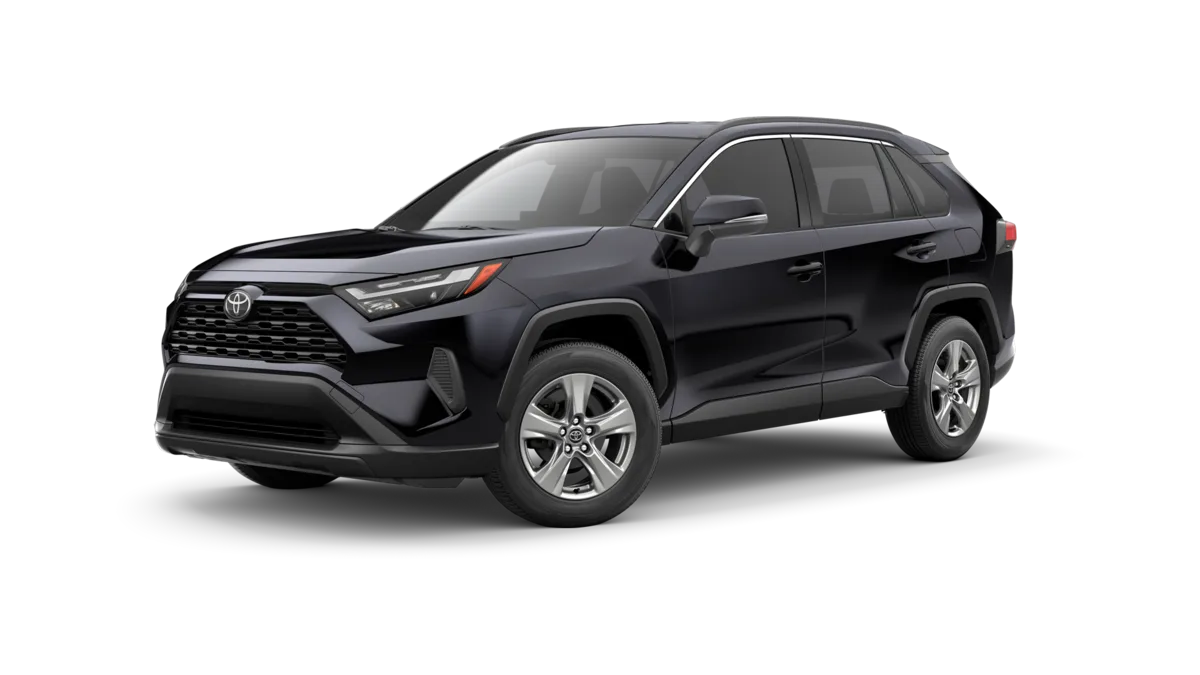
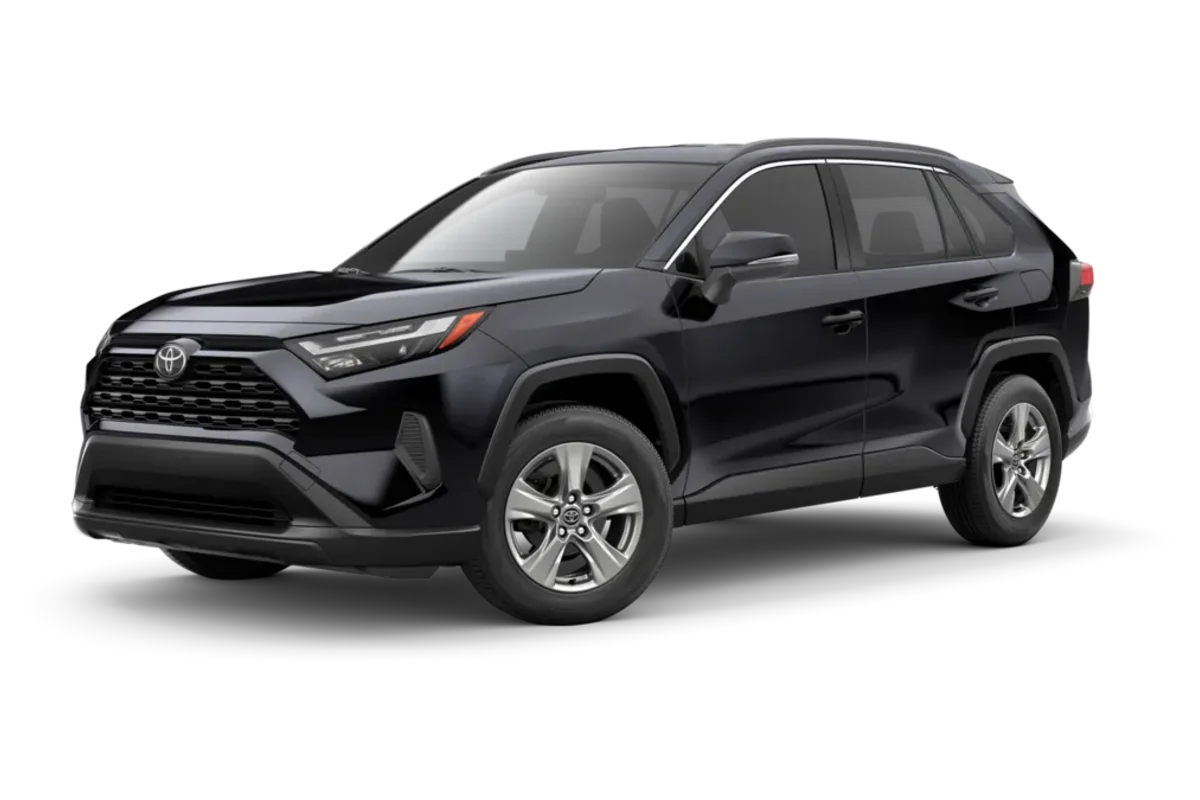
corrected the images

diff --git a/rta-marketing/apps/dealership-web/src/landing.css b/rta-marketing/apps/dealership-web/src/landing.css
@@ -24,6 +24,11 @@
 .landing-vehicle-card:focus-visible{box-shadow:0 0 0 3px var(--landing-orange),0 20px 30px rgba(14,34,31,.13);outline:none;transform:translateY(-5px)}
 .landing-vehicle-card-link{align-items:center;border-top:1px solid #e7e9e3;color:var(--landing-orange-dark);display:flex;font-size:10px;font-weight:800;gap:5px;margin-top:15px;padding-top:12px}
 .landing-vehicle-card-link svg{transition:transform .2s}.landing-vehicle-card:hover .landing-vehicle-card-link svg,.landing-vehicle-card:focus-visible .landing-vehicle-card-link svg{transform:translateX(3px)}
+
+/* Keep every listing image on one predictable 3:2 canvas. The source assets
+   are normalized to this ratio so cars stay complete without letterbox shifts. */
+.landing-vehicle-card-image{aspect-ratio:3 / 2;height:auto;min-height:0}
+.landing-vehicle-card-image img{display:block;height:100%;object-fit:cover;width:100%}
 .landing-vehicle-detail-backdrop{align-items:center;background:rgba(9,23,25,.7);display:flex;inset:0;justify-content:center;padding:24px;position:fixed;z-index:30}
 .landing-vehicle-detail-panel{background:#fff;border-radius:7px;box-shadow:0 30px 90px rgba(9,23,25,.3);display:grid;grid-template-columns:minmax(280px,.9fr) 1.1fr;max-height:min(720px,calc(100vh - 48px));max-width:900px;overflow:auto;width:100%}
 .landing-vehicle-detail-visual{min-height:100%;overflow:hidden;position:relative}.landing-vehicle-detail-visual img{height:100%;min-height:430px;object-fit:contain;width:100%}.landing-vehicle-detail-status{align-items:center;background:rgba(9,23,25,.78);border-radius:3px;bottom:18px;color:#fff;display:flex;font-size:9px;font-weight:800;gap:6px;left:18px;padding:8px 10px;position:absolute}.landing-vehicle-detail-status svg{color:#74d79c}
